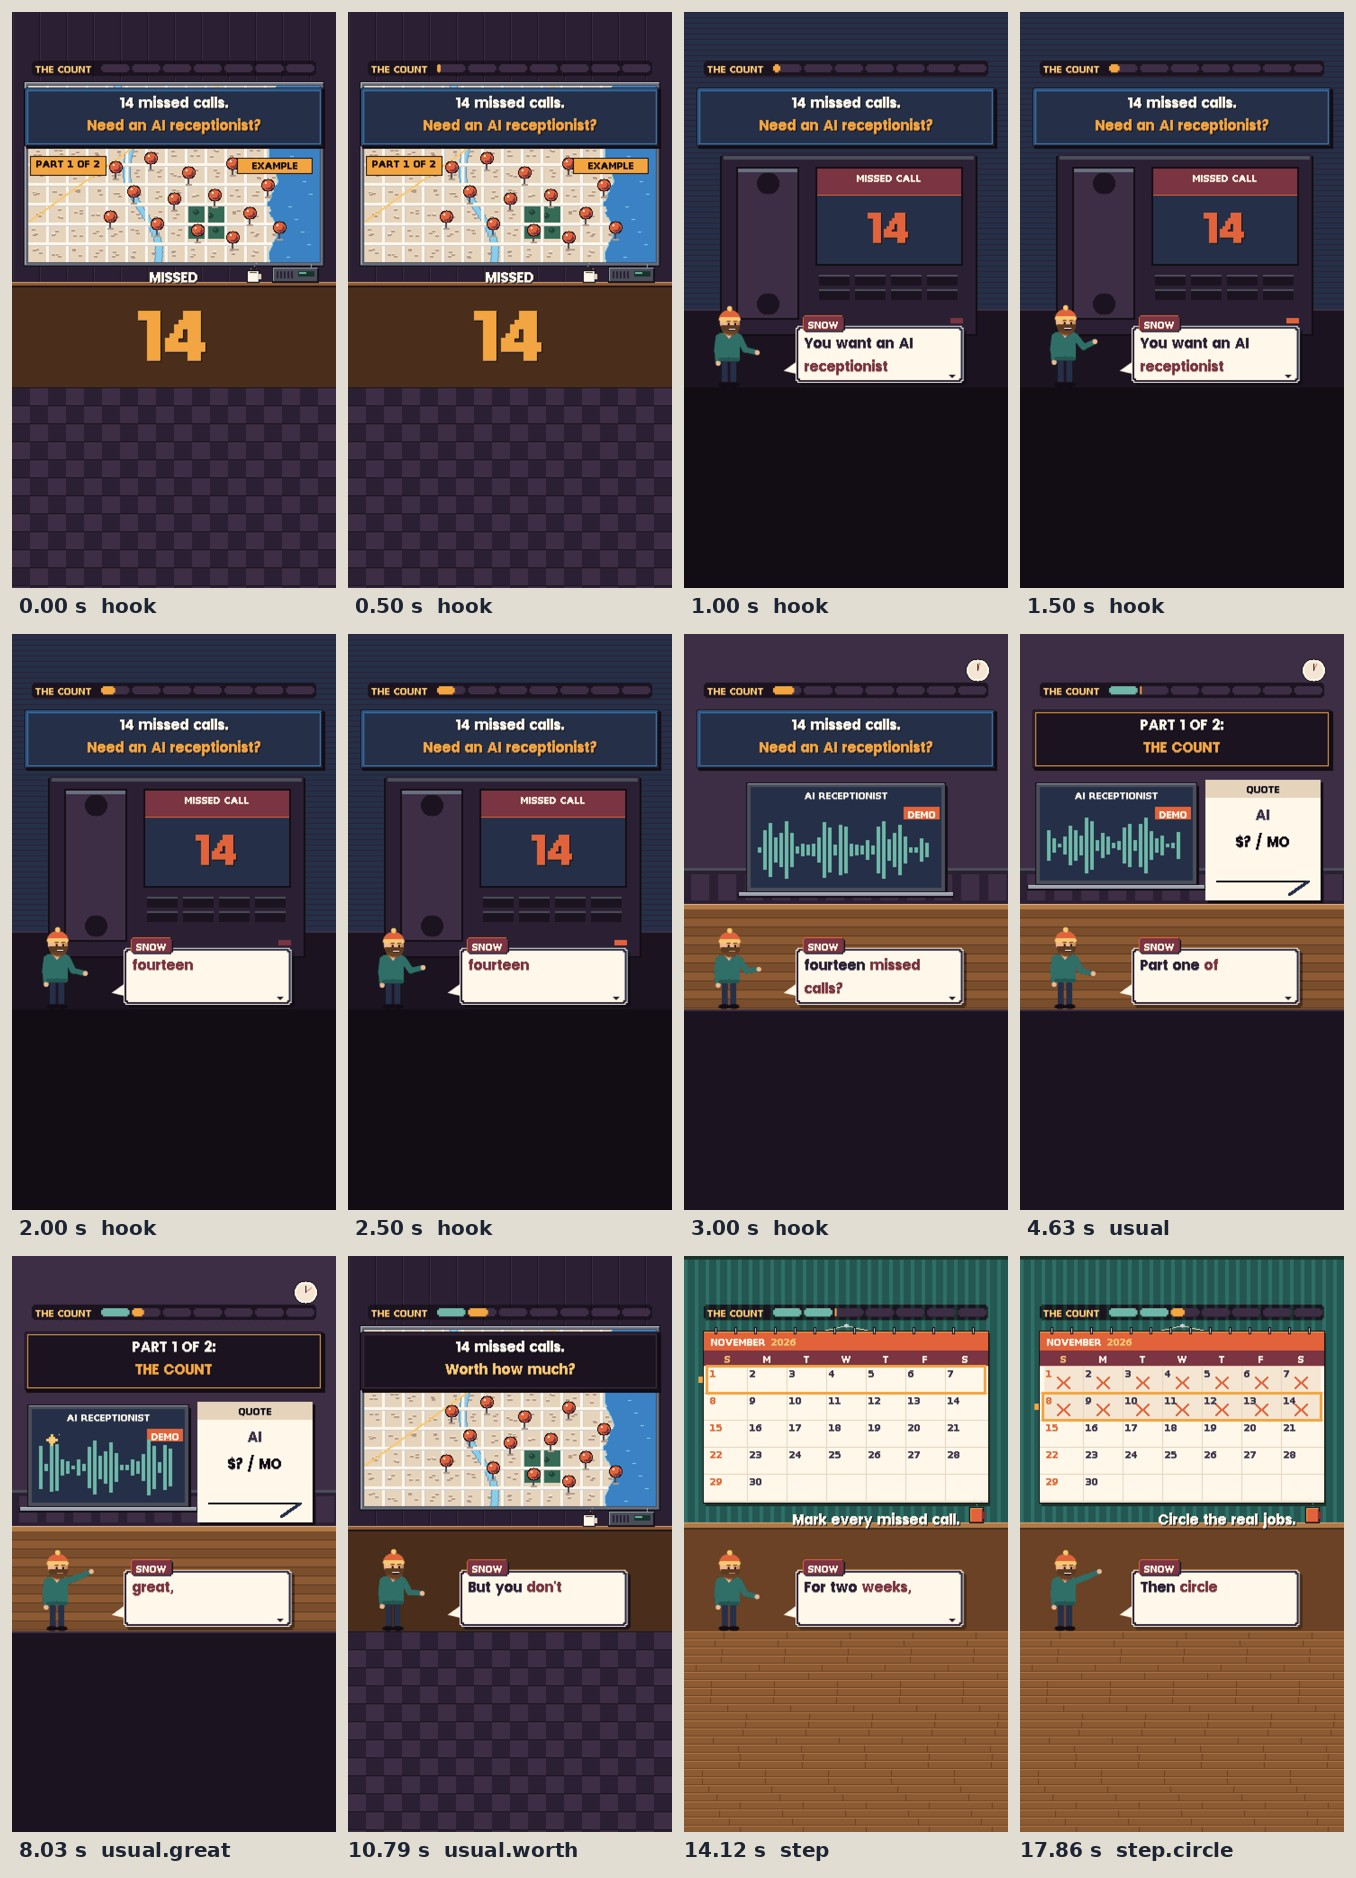
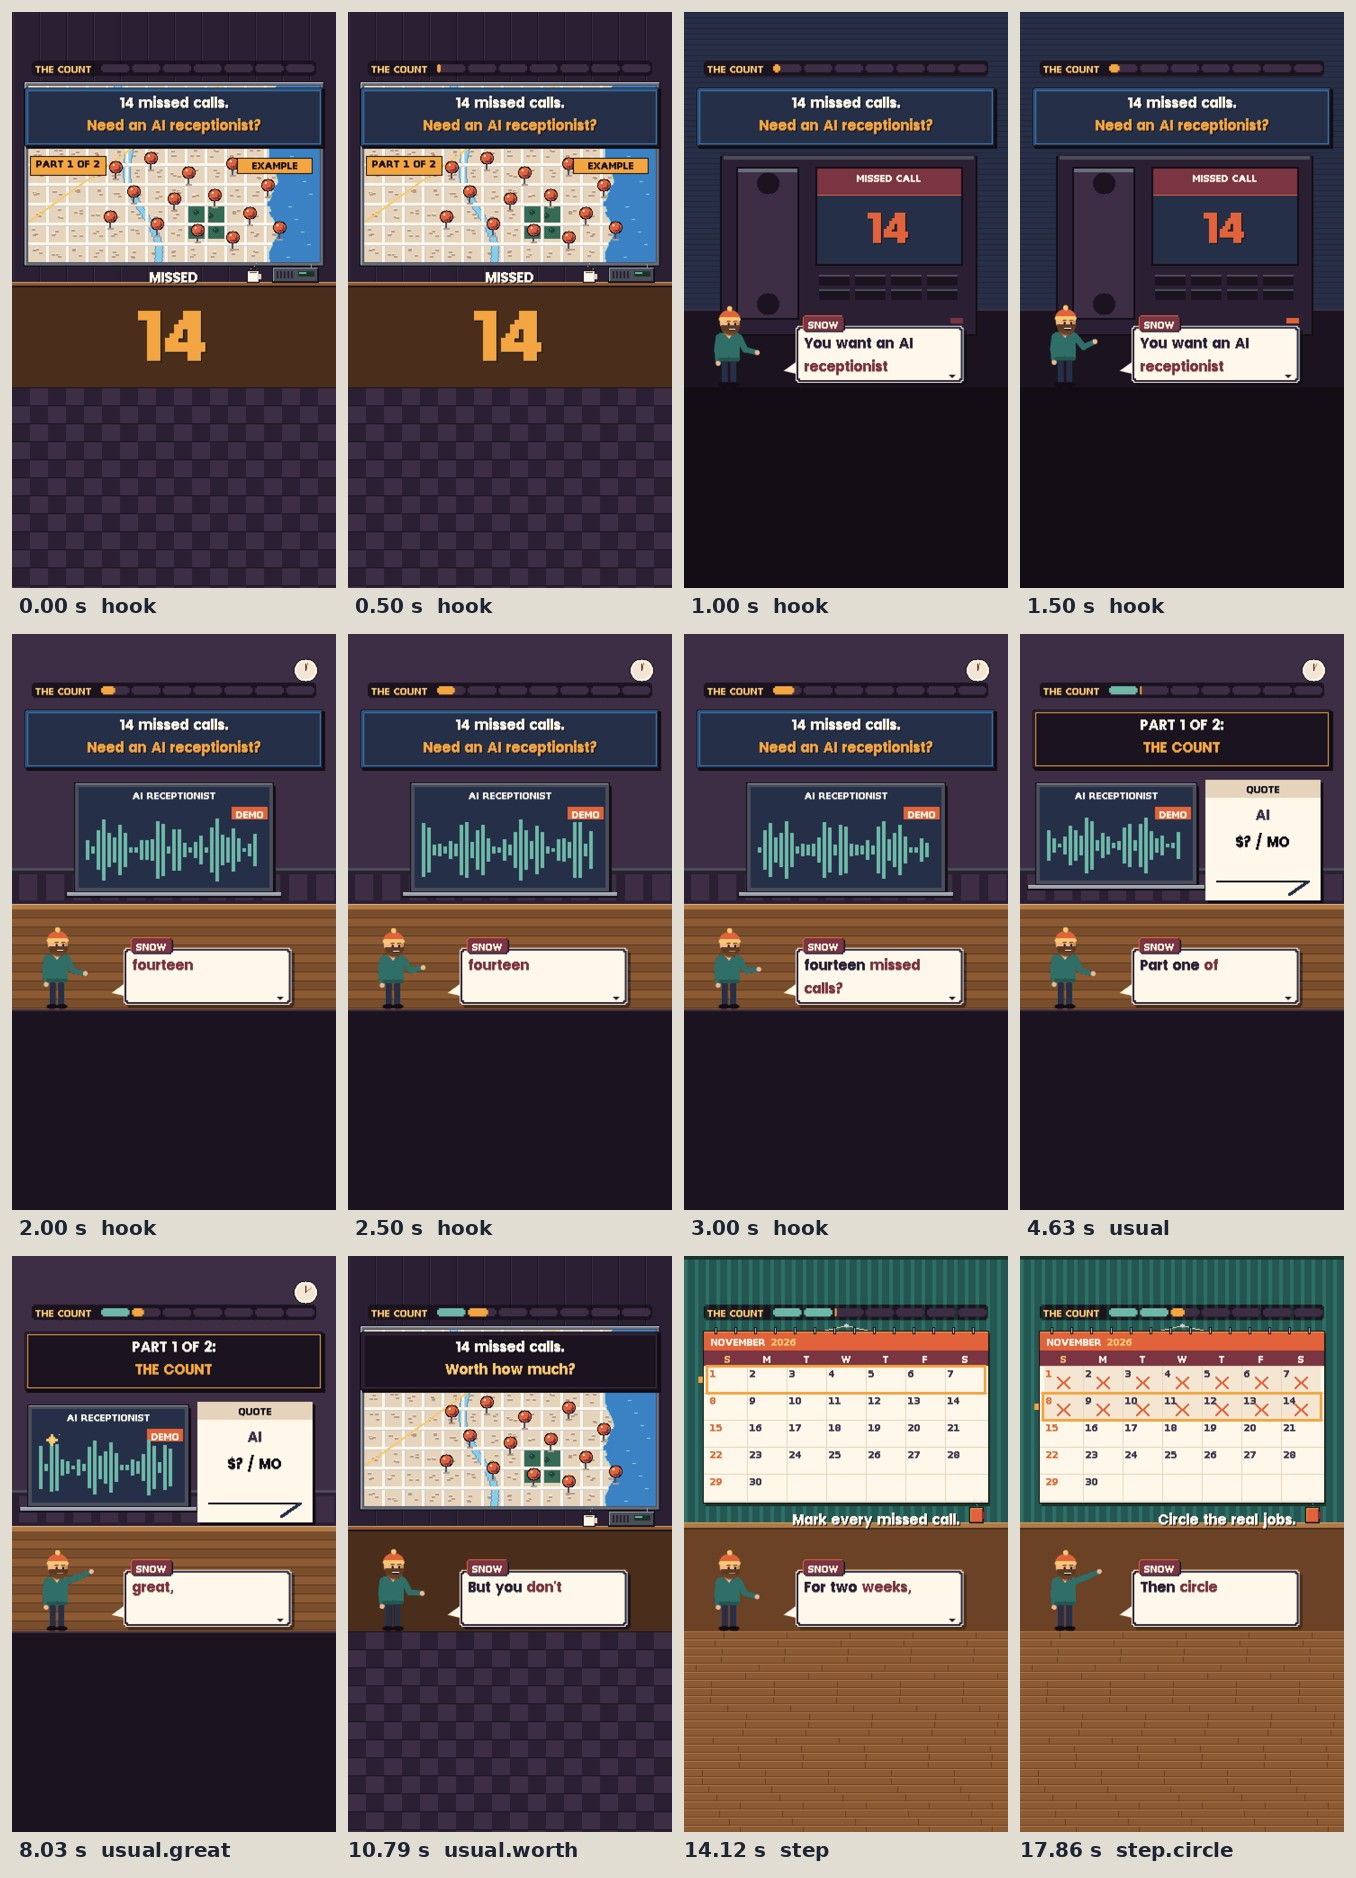
Studio: count-before-ai round 2 (live chat, Oct 31): design PASS 4.71 at the 4.50 bar, golden PASS; fixes for render critic (EXAMPLE tag, QUOTE label inside x 930) and buyer (tonight's call log count, 'It might pay', 14 missed calls in 2 weeks); takes 3 and 5 re-spoken; inventory slots option, calen
Claude-Session: https://claude.ai/code/session_01XMn4eHXXBNFFFhZSS8Ea12

Changed region(s): [[0.0, 0.3397, 0.4956, 0.5559]]

diff --git a/video/studio/videos/2026-11-13-count-before-ai/04_scene/scene.js b/video/studio/videos/2026-11-13-count-before-ai/04_scene/scene.js
@@ -69,7 +69,7 @@ const exTag = (k, d, x, y) => { d.P(x, y, 84, 18, INK); d.P(x + 1, y + 1, 82, 16
 const partTag = (k, d, n, x = 20, y = 160) => { const s = `PART ${n.part.shown} OF ${n.series.shown}`, w = Math.ceil((k.measure(s, {size: 39}) + 36) / 3); d.P(x, y, w + 2, 22, INK); d.P(x + 1, y + 1, w, 20, ORANGE); k.text(s, (x + 1 + w / 2) * 3, (y + 2) * 3, {size: 39, color: INK, align: 'center'}); };
 const hookPlate = (k, d, n) => {
   d.win(14, 84, 332, 66, {base: '#253048', hi: '#3B82C4', lo: '#1B1420', rule: '#3B82C4'});
-  k.text(`${n.missed.shown} missed calls.`, 540, 270, {size: 66, color: CREAM, align: 'center', drop: INK});
+  k.text(`${n.missed.shown} missed calls in ${n.weeks.shown} weeks.`, 540, 270, {size: 66, color: CREAM, align: 'center', drop: INK});
   k.text('Need an AI receptionist?', 540, 346, {size: 66, color: 'accent', align: 'center', drop: INK});
 };
 
@@ -144,7 +144,7 @@ window.SCENE = {
     /* cut to the laptop with the AI RECEPTIONIST screen. The plate stays up through every cut.                         */
     hook: (k, T) => {
       const n = k.data.numbers;
-      const tIn = 0.6, tOut = Math.min(2.9, wordT(k, 'hook', /^need/i, 2.8));
+      const tIn = 0.6, tOut = Math.min(2.0, wordT(k, 'hook', /^need/i, 2.0));
       if (T >= tOut) {
         const d = office(k, {top: 300});
         laptop(k, d, 70, 166, 220, 120, {demo: true});
@@ -158,11 +158,11 @@ window.SCENE = {
       }
       k.sets.dispatch({pins: PINS.slice(0, n.missed.value).map(([x, y]) => ({x, y, at: -1, c: '#E2633B'}))});
       const d = px(k);
-      k.text('MISSED', 540, 852, {size: 66, color: CREAM, align: 'center', drop: INK});
-      k.text(n.missed.shown, 540, 920, {size: 330, color: 'accent', align: 'center', drop: INK});
+      k.text('MISSED CALLS', 540, 1120, {size: 66, color: CREAM, align: 'center', drop: INK});
+      k.text(n.missed.shown, 540, 880, {size: 264, color: 'accent', align: 'center', drop: INK});
       hookPlate(k, d, n);
       partTag(k, d, n);
-      exTag(k, d, 250, 162);
+      exTag(k, d, 220, 162);
       return {host: false, speech: false};
     },
 
@@ -201,18 +201,20 @@ window.SCENE = {
     /* ---- step: the calendar set, NOVEMBER. An X lands on days 1 to 14 on "mark every call"; the week strip on week 1, */
     /* then week 2 on "weeks"; 4 of the days take a coin on "real jobs"; 4 OF 14 lands on "four".                       */
     step: (k, T) => {
-      const n = k.data.numbers, t0 = k.S('step'), tMark = wordT(k, 'step', /^mark/i, 1.4), tJobs = wordT(k, 'step.circle', /^jobs/i, 1.8), tFour = wordT(k, 'step.four', /^four/i, 0.4);
+      const n = k.data.numbers, t0 = k.S('step'), tMark = wordT(k, 'step', /^count/i, 2.4), tJobs = wordT(k, 'step.circle', /^jobs/i, 1.8), tFour = wordT(k, 'step.four', /^four/i, 0.4);
       const JOB_DAYS = [3, 6, 10, 13].slice(0, n.jobs.value);
       const fills = [];
       for (let dd = 1; dd <= n.days.value; dd++) fills.push({day: dd, at: tMark + (dd - 1) * 0.1, mark: 'x'});
       JOB_DAYS.forEach((dd, i) => fills.push({day: dd, at: tJobs - 0.3 + i * 0.25, mark: 'coin', c: '#F7C873'}));
-      k.sets.calendar({month: 'NOVEMBER', year: 2026, start: 0, days: 30, fills, weeks: [{row: 0, at: t0 + 0.1}, {row: 1, at: tMark + 0.8}]});
+      k.sets.calendar({month: 'NOVEMBER', year: 2026, start: 0, days: 30, numbersTo: T >= tFour - 0.1 ? 14 : 30, fills, weeks: [{row: 0, at: t0 + 0.1}, {row: 1, at: tMark + 0.8}]});
       if (T >= tFour) {
-        k.slam(n.jobs.shown, 920, 826, tFour, {size: 198, color: GOLD, align: 'right', from: 0.5, drop: INK, glint: false});
-        k.text('REAL JOBS', 800, 846, {size: 66, color: CREAM, align: 'right', drop: INK});
-        k.text(`OF ${n.missed.shown} CALLS`, 800, 920, {size: 66, color: CREAM, align: 'right', drop: INK});
+        /* a plate over the empty weeks of the month: the count big, what it means under it */
+        const hero = `${n.jobs.shown} OF ${n.missed.shown}`, dp = px(k), sl = dp.ease(tFour - 0.1, 5, 40);
+        dp.win(24, 186 + sl, 312, 90, {base: '#1B1420', hi: '#3D2E45', lo: INK, rule: GOLD});
+        k.slam(hero, 540, 578 + sl * 3, tFour, {size: fit(k, hero, 900, [198, 132]), color: GOLD, align: 'center', from: 0.6, drop: INK, glint: false});
+        k.text('CALLS WERE REAL JOBS', 540, 748 + sl * 3, {size: 66, color: CREAM, align: 'center', drop: INK});
       } else {
-        const s = T >= k.S('step.circle') ? 'Circle the real jobs.' : 'Mark every missed call.';
+        const s = T >= k.S('step.circle') ? 'Circle the real jobs.' : 'Count every missed call.';
         k.text(s, 920, 846, {size: fit(k, s, 600, [66, 39]), color: CREAM, align: 'right', drop: INK});
       }
       return host(k, k.live('step.circle') ? 'point' : null);
@@ -242,7 +244,7 @@ window.SCENE = {
       const n = k.data.numbers, t0 = k.S('check'), tBig = k.S('check.bigger'), tSm = k.S('check.smaller');
       const d = office(k, {top: 300, clock: false}), {P, line, disc} = d;
       d.win(14, 84, 332, 66, {base: '#1B1420', hi: '#3D2E45', lo: INK, rule: '#3D2E45'});
-      const say = T >= tSm ? ['Price smaller?', `Try part ${n.next.shown}.`, tSm, TEAL] : T >= tBig ? ['Price bigger?', 'Not paid back yet.', tBig, RED] : ['Missed jobs a month', 'next to the quote', t0, GOLD];
+      const say = T >= tSm ? ['Smaller? It might pay.', `Try part ${n.next.shown}.`, tSm, TEAL] : T >= tBig ? ['Price bigger?', 'Not paid back yet.', tBig, RED] : ['Missed jobs a month', 'next to the quote', t0, GOLD];
       k.slam(say[0], 540, 270, say[2] + 0.05, {size: 66, color: CREAM, align: 'center', from: 0.4, drop: INK, glint: false});
       k.slam(say[1], 540, 346, say[2] + 0.12, {size: 66, color: say[3], align: 'center', from: 0.4, drop: INK, glint: false});
       /* the tilt in whole pixels: level, then the quote side down on "bigger", up on "Smaller" */
@@ -255,9 +257,9 @@ window.SCENE = {
       for (let i = 0; i < 4; i++) d.coin(50 + i * 10, ly + 22, 0);
       k.text(n.month.shown, 210, (ly - 44) * 3 - 40, {size: 66, color: GOLD, align: 'center', drop: INK});
       k.text('/ MO', 210, (ly - 44) * 3 + 36, {size: 66, color: CREAM, align: 'center', drop: INK});
-      P(268, ry + 2, 44, 28, INK); P(269, ry + 3, 42, 26, GOLD); P(269, ry + 3, 42, 3, '#FFF2B8'); disc(275, ry + 9, 2, INK); k.text('$?', 870, (ry + 7) * 3, {size: 66, color: INK, align: 'center'});
-      k.text('QUOTE', 870, (ry - 44) * 3 - 40, {size: 66, color: CREAM, align: 'center', drop: INK});
-      k.text('/ MO', 870, (ry - 44) * 3 + 36, {size: 66, color: CREAM, align: 'center', drop: INK});
+      P(268, ry + 2, 44, 28, INK); P(269, ry + 3, 42, 26, GOLD); P(269, ry + 3, 42, 3, '#FFF2B8'); disc(275, ry + 9, 2, INK); k.text('$?', 840, (ry + 7) * 3, {size: 66, color: INK, align: 'center'});
+      k.text('QUOTE', 840, (ry - 44) * 3 - 40, {size: 66, color: CREAM, align: 'center', drop: INK});
+      k.text('/ MO', 840, (ry - 44) * 3 + 36, {size: 66, color: CREAM, align: 'center', drop: INK});
       if (T >= tBig && T < tSm) stampBox(k, 'NOT YET', 540, 486, tBig, {color: RED, freeze: 4});
       else if (T < tBig) k.text('Which side is heavier?', 540, 476, {size: 66, color: SAND, align: 'center', drop: INK});
       return host(k, k.live('check.bigger') ? 'shrug' : null);
@@ -268,9 +270,10 @@ window.SCENE = {
     next: (k, T) => {
       const n = k.data.numbers, t0 = k.S('next'), tA = wordT(k, 'next', /^three/i, 0.6), tB = wordT(k, 'next', /^options/i, 1.0), tC = wordT(k, 'next', /^side/i, 1.6);
       k.sets.inventory({title: `PART ${n.next.shown}`, hint: ' ', items: [{icon: 'mail', name: 'TEXT BACK'}, {icon: 'phone', name: 'A PERSON'}, {icon: 'star', name: 'AI'}],
-        select: [{slot: 0, at: tA}, {slot: 1, at: tB}, {slot: 2, at: tC}]});
-      k.text(`${n.opts.shown} options, side by side:`, 72, 606, {size: 66, color: CREAM, drop: INK});
-      [['TEXT BACK', tA], ['A PERSON', tB], ['AI', tC]].forEach(([s2, ti], i) => { if (T >= ti) k.slam(s2, 72 + i * 0, 690 + i * 70, ti, {size: 66, color: i === 2 ? GOLD : '#F4E6D3', from: 0.4, drop: INK, glint: false}); });
+        slots: 3, select: [{slot: 0, at: t0}, {slot: 0, at: tA}, {slot: 1, at: tB}, {slot: 2, at: tC}]});
+      k.text(`${n.opts.shown} options, side by side`, 540, 606, {size: 66, color: CREAM, align: 'center', drop: INK});
+      const opts = [['TEXT BACK', tA], ['A PERSON', tB], ['AI', tC]], on = opts.filter(([, ti]) => T >= ti).length - 1;
+      if (on >= 0) { const [s2, ti] = opts[on]; k.slam(`${on + 1}. ${s2}`, 540, 684, ti, {size: fit(k, `${on + 1}. ${s2}`, 860, [132, 99]), color: on === 2 ? GOLD : '#F4E6D3', align: 'center', from: 0.4, drop: INK, glint: false}); }
       return host(k, k.live('next') ? 'point' : null);
     },
 

diff --git a/video/studio/_runtime/sets.js b/video/studio/_runtime/sets.js
@@ -455,7 +455,7 @@
         if (q < 2) dith(x + 1, y + 1, cw - 1, ch - 1, c); else P(x + 1, y + 1, cw - 1, ch - 1, c);
         if (q >= 2 && f.mark && f.mark !== 'fill') { const d = q < 4 ? -2 : 0; mark(x, y + d, f.mark, f.mc); }
       });
-      for (let d = 1; d <= days; d++) { const [x, y] = cell(d); tx(String(d), x + 3, y + 2, {color: (start + d - 1) % 7 === 0 ? '#E2633B' : '#3D2E45'}); }
+      for (let d = 1; d <= Math.min(days, o.numbersTo || days); d++) { const [x, y] = cell(d); tx(String(d), x + 3, y + 2, {color: (start + d - 1) % 7 === 0 ? '#E2633B' : '#3D2E45'}); }
       // the week strip
       const ws = (o.weeks || []).filter((w) => T >= w.at);
       if (ws.length) {
@@ -788,7 +788,7 @@
     // ================================================================================================================
     // 13. inventory: an RPG item screen. A tool belt of eight slots with pixel icons; the cursor jumps from slot to slot
     // (its corner brackets breathing in and out a pixel), the detail pane names the item and fills its stat bars.
-    // o: {title ('TOOL BELT'), items: [{icon, name, stats: [{label, value, max, text}]}], select: [{slot, at}]}
+    // o: {title ('TOOL BELT'), slots (8), items: [{icon, name, stats: [{label, value, max, text}]}], select: [{slot, at}]}
     const ICONS = {
       wrench: ['....aa....', '...aab....', '...ab.....', '...abb..a.', '....abbaab', '.....abbb.', '....abb...', '...abb....', '..abb.....', '.abb......'],
       phone: ['.cccccc...', '.cddddc...', '.cdeedc...', '.cddddc...', '.cddddc...', '.cddddc...', '.cddddc...', '.cccccc...', '.cc..cc...', '.cccccc...'],
@@ -811,9 +811,9 @@
       P(X + 10, Y - 6, tw(o.title || 'TOOL BELT') + 14, 13, INK); P(X + 11, Y - 5, tw(o.title || 'TOOL BELT') + 12, 11, '#7A3442'); tx(o.title || 'TOOL BELT', X + 17, Y - 5, {color: '#FFF7EA'});
       const items = o.items || [], sel = (o.select || []).filter((s) => T >= s.at), cur = sel[sel.length - 1], prev = sel[sel.length - 2];
       const slot = (i) => [X + 12 + (i % 4) * 40, Y + 14 + Math.floor(i / 4) * 40];
-      for (let i = 0; i < 8; i++) { const [sx, sy] = slot(i); P(sx, sy, 34, 34, '#1B1420'); P(sx, sy, 34, 1, '#120D14'); P(sx, sy + 33, 34, 1, '#3B82C4'); P(sx + 33, sy, 1, 34, '#3B82C4'); if (items[i]) S.icon(items[i].icon, sx + 7, sy + 7, 2); }
+      const nS = o.slots || 8; for (let i = 0; i < nS; i++) { const [sx, sy] = slot(i); P(sx, sy, 34, 34, '#1B1420'); P(sx, sy, 34, 1, '#120D14'); P(sx, sy + 33, 34, 1, '#3B82C4'); P(sx + 33, sy, 1, 34, '#3B82C4'); if (items[i]) S.icon(items[i].icon, sx + 7, sy + 7, 2); }
       // the belt strap under the slots
-      P(X + 8, Y + 98, 160, 4, '#6B4226'); P(X + 8, Y + 98, 160, 1, '#B07A47'); P(X + 80, Y + 96, 12, 8, '#F2A541'); P(X + 82, Y + 98, 8, 4, '#6B4226');
+      const sw = Math.min(4, nS) * 40; P(X + 8, Y + 98, sw, 4, '#6B4226'); P(X + 8, Y + 98, sw, 1, '#B07A47'); P(X + 8 + sw / 2 - 6, Y + 96, 12, 8, '#F2A541'); P(X + 8 + sw / 2 - 4, Y + 98, 8, 4, '#6B4226');
       if (!cur) { P(X + 178, Y + 14, 124, 34, '#1B1420'); tx(o.hint || 'Pick a tool', X + 186, Y + 25, {color: '#6B7080'}); }
       if (cur) {
         const [ax, ay] = slot(cur.slot), [bx0, by0] = prev ? slot(prev.slot) : [ax, ay], q = easeOut(fr(cur.at) / 4);

diff --git a/video/studio/_runtime/player.js b/video/studio/_runtime/player.js
@@ -308,21 +308,24 @@
     k.text('proofnotfluff.com', 534, 576, {size: 66, color: '#F7C873', align: 'center', lint: drop === 0});
     const uw = Math.round(k.measure('proofnotfluff.com', {size: 66}) / 3), ux = 178 - Math.round(uw / 2);
     if (f >= 12) P(ux, 216, Math.min(uw, (f - 12) * 8), 2, '#F7C873');   // the site's underline draws on
-    k.text('Lessons for trade owners', 534, 690, {size: 39, color: '#E6D3BC', align: 'center', lint: drop === 0});
+    k.text('Lessons for trade owners', 534, 690, {size: 66, color: '#E6D3BC', align: 'center', lint: drop === 0});
     // the send line (Lead Clinic v2, Oct 29): a v2 lesson says no call to action, so the card carries it, word-wrapped
     // into the space under the plate; on a card with a send line Snow stands smaller, so his hat stays under it
     const send = window.SCENE.sendLine;
     if (send) {
-      const words = String(send).split(/\s+/), rows = [''];
-      words.forEach((w) => { const s = rows[rows.length - 1] ? rows[rows.length - 1] + ' ' + w : w; if (k.measure(s, {size: 39}) > 840 && rows[rows.length - 1]) rows.push(w); else rows[rows.length - 1] = s; });
-      rows.forEach((s, i) => k.text(s, 534, 870 + i * 51, {size: 39, color: '#FFF7EA', align: 'center', lint: drop === 0 && f >= 12}));
+      // balanced rows at a readable size (design gate, Oct 31: 39 read as 28 px): one row if it fits, else the split
+      // into two rows with the shortest longer row
+      const words = String(send).split(/\s+/), W = (s) => k.measure(s, {size: 66});
+      let rows = [words.join(' ')];
+      if (W(rows[0]) > 960) { let best = null; for (let i = 1; i < words.length; i++) { const a = words.slice(0, i).join(' '), b = words.slice(i).join(' '), m = Math.max(W(a), W(b)); if (!best || m < best[0]) best = [m, [a, b]]; } rows = best[1]; }
+      rows.forEach((s, i) => k.text(s, 534, 830 + i * 78, {size: 66, color: '#FFF7EA', align: 'center', lint: drop === 0 && f >= 12}));
     }
     // a twinkle walks the plate's corners, one every 8 frames, so the held card is never a still picture
     const pts = [[46, 102], [310, 102], [310, 258], [46, 258]], g = f >= 10 ? Math.floor((f - 10) / 8) % 4 : -1;
     if (g >= 0) { const [x, y] = pts[g], s = [0, 1, 2, 1][Math.floor(f / 2) % 4]; P(x, y, 1, 1, '#FFF7EA'); for (let i = 1; i <= s; i++) { P(x - i, y, 1, 1, '#FFF7EA'); P(x + i, y, 1, 1, '#FFF7EA'); P(x, y - i, 1, 1, '#FFF7EA'); P(x, y + i, 1, 1, '#FFF7EA'); } }
     // Snow waves goodbye on a strip of floor under the plate
     P(0, 418, 360, 6, '#3D2E45'); P(0, 424, 360, 212, '#1B1420'); for (let x = (f >> 2) % 24 - 24; x < 360; x += 24) P(x, 430, 12, 2, '#2B2033');
-    k.snow(540, 1254, {scale: window.SCENE.sendLine ? 0.6 : 0.86, pose: 'wave', face: 1});
+    k.snow(540, 1254, {scale: window.SCENE.sendLine ? 0.5 : 0.86, pose: 'wave', face: 1});
     ctx.restore();
     return true;
   }

diff --git a/video/studio/videos/2026-11-13-count-before-ai/01_voice/script.md b/video/studio/videos/2026-11-13-count-before-ai/01_voice/script.md
@@ -4,10 +4,10 @@ You want an AI receptionist after fourteen missed calls?
 
 Part one of two, the count. Your gut says the demo sounded great, so sign. But you don't know what those calls are worth yet.
 
-For two weeks, mark every call you miss on a calendar. Then circle the ones that were real jobs. Say it's four of the fourteen.
+Tonight, scroll your call log back two weeks and count every miss. Then circle the ones that were real jobs. Say it's four of the fourteen.
 
 [matter-of-fact] Four jobs times what you clear on an average job. Say three fifty. That's fourteen hundred bucks in two weeks. Call it twenty-eight hundred a month.
 
-Now hold that next to the monthly price on the quote. Price is bigger? It can't pay for itself yet. Smaller? Part two tries three options side by side.
+Now hold that next to the monthly price on the quote. Price is bigger? It can't pay for itself yet. Smaller? It might pay. Part two tries three options side by side.
 
 [confident] Count the missed calls before you buy what answers them.

diff --git a/video/studio/videos/2026-11-13-count-before-ai/01_voice/brief.md b/video/studio/videos/2026-11-13-count-before-ai/01_voice/brief.md
@@ -11,7 +11,7 @@ worked example labeled EXAMPLE on screen (facts.json); no outside study or perce
 - **Audience:** a solo or small-crew plumber, HVAC tech or electrician who misses calls on jobs and has an AI
   receptionist demo or quote in hand.
 - **The one idea:** count your missed calls and what they're worth before you buy anything to answer them. (15 words)
-- **Do this week (on screen, held):** for two weeks, mark every missed call on a calendar and circle the real jobs; then
+- **Do this week (on screen, held):** tonight, scroll the call log back two weeks, count every missed call and circle the real jobs (buyer gate, Oct 31: under an hour, standard.md S3); then
   the board: real jobs x what you clear a job = what they're worth; hold that next to the monthly price on the quote.
 - **Shape:** hook (a wall calendar, two weeks, 14 red X's; "Need an AI receptionist?") -> part 1 of 2, the usual way (the
   demo sounded great, so sign; but nobody knows what the calls are worth) -> the step (two weeks of marks on the

diff --git a/video/studio/videos/2026-11-13-count-before-ai/03_cues/cues.md b/video/studio/videos/2026-11-13-count-before-ai/03_cues/cues.md
@@ -12,8 +12,8 @@ Gold stars pop over the wave on "great"; on "sign" a quote sheet slides up with 
 ## usual.worth "But you don't know" [sfx: stamp]
 Cut to the dispatch board again, the 14 red pins; plate "14 missed calls." / "Worth how much?"; a red stamp "WORTH: ?" hits on "worth"; Snow shrugs.
 
-## step "For two weeks, mark" [sfx: whoosh]
-The calendar set, NOVEMBER: a red X lands on each day from 1 to 14 on "mark every call"; the gold week strip sits on week 1, then week 2. Line in the strip under it: "Mark every missed call."
+## step "Tonight, scroll your call" [sfx: whoosh]
+The calendar set, NOVEMBER: a red X lands on each day from 1 to 14 on "count every miss"; the gold week strip sits on week 1, then week 2. Line in the strip under it: "Count every missed call."
 ## step.circle "Then circle the ones" [sfx: tick]
 Four of the days take a gold coin, one by one ("real jobs"). The strip line turns to "Circle the real jobs."
 ## step.four "Say it's four of" [sfx: tick]
